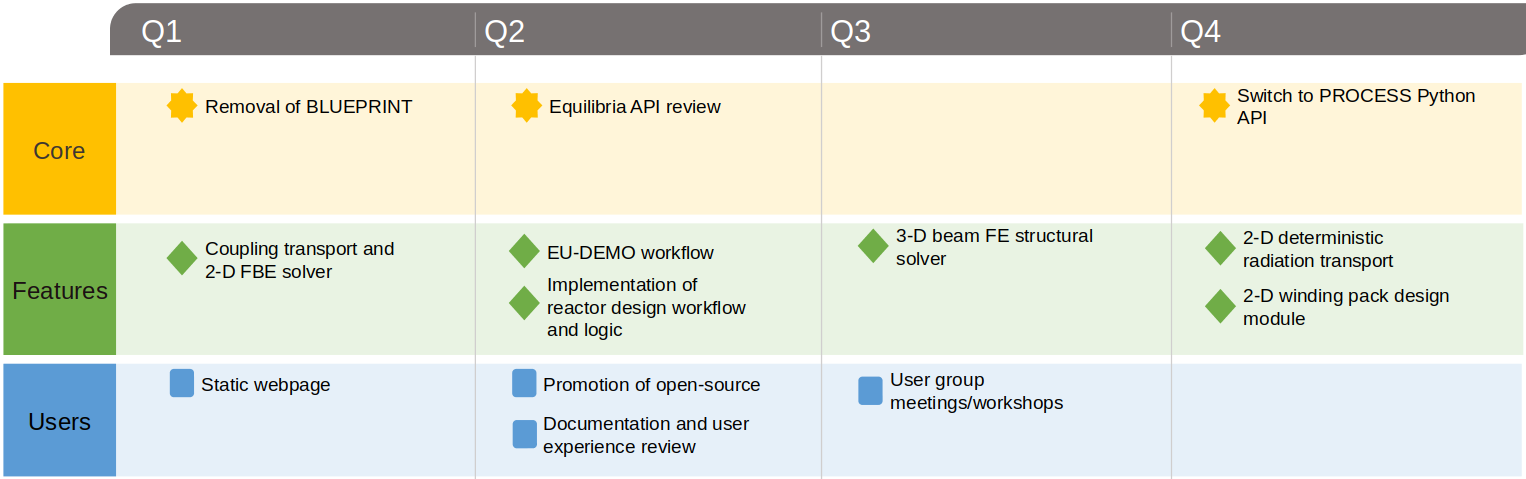
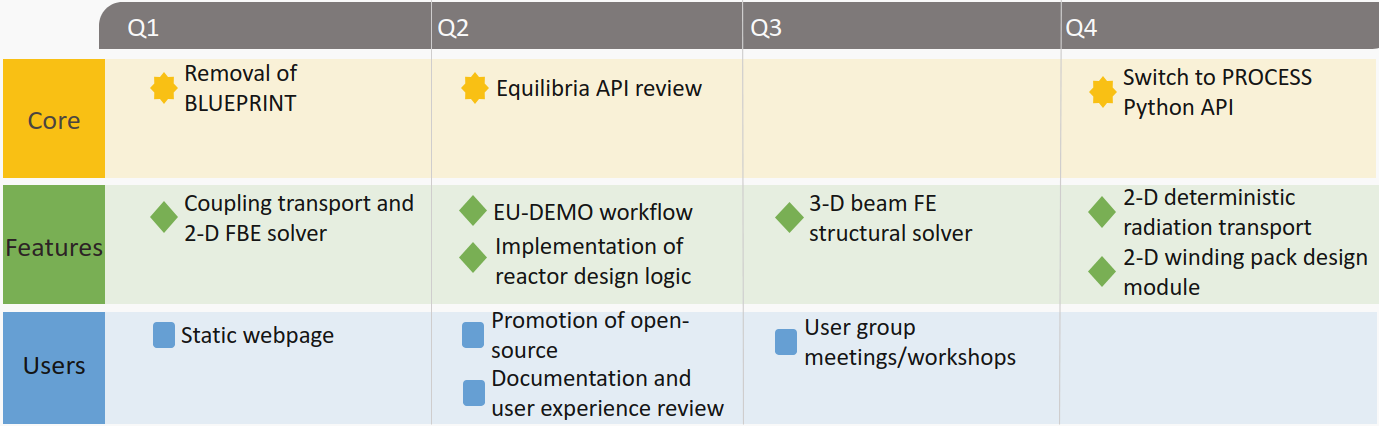
larger font

diff --git a/documentation/source/introduction.rst b/documentation/source/introduction.rst
@@ -34,3 +34,9 @@ functionality than ``BLUEPRINT`` or ``MIRA`` did. We are very actively working t
 a point where ``bluemira`` is greater than the sum of its parts. If you are interested in
 using ``bluemira`` as an "early adopter", please do get in touch with us so that we can
 help you.
+
+
+.. figure:: bluemira-roadmap.png
+    :name: fig:bluemira-roadmap
+
+    ``Bluemira`` development roadmap for 2022
